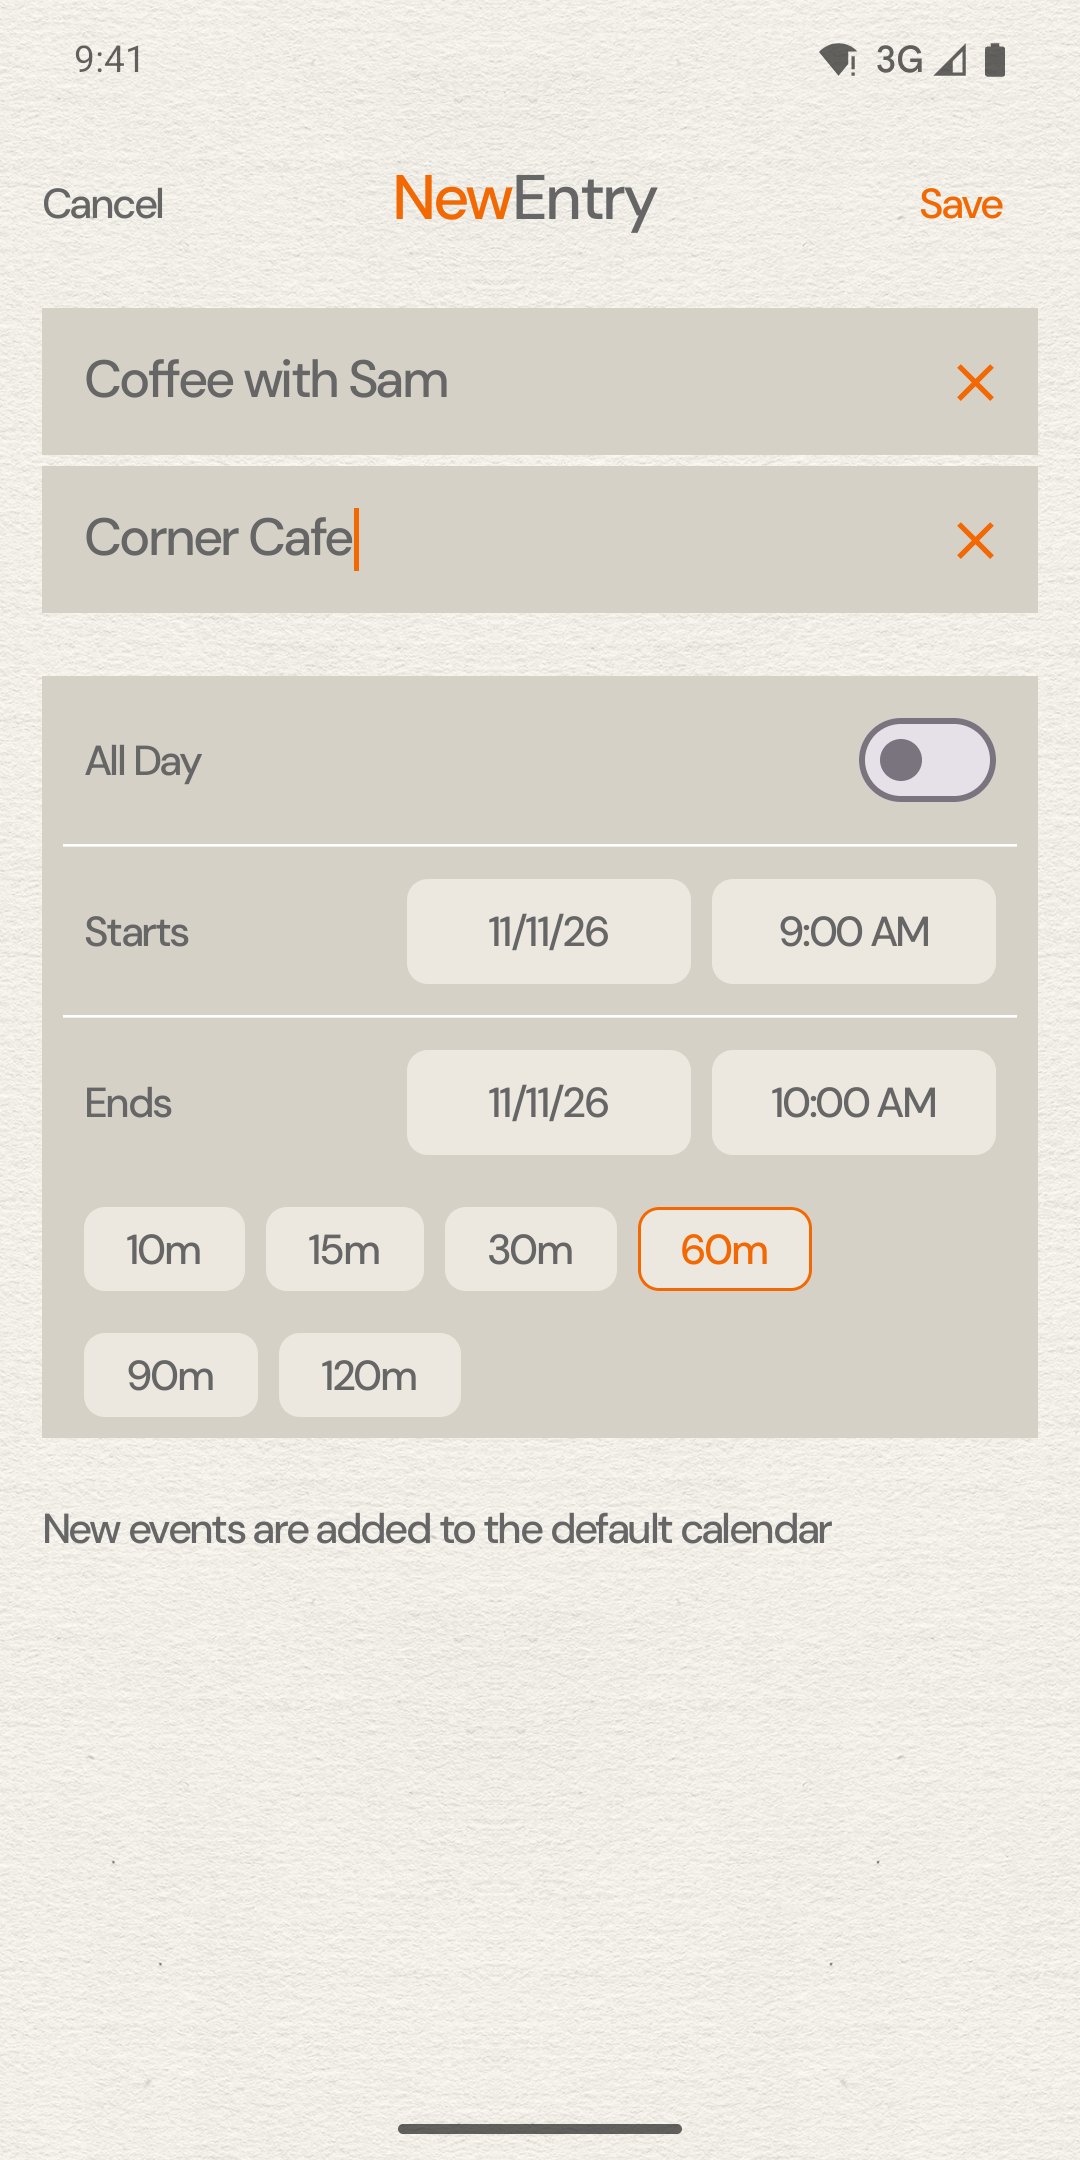
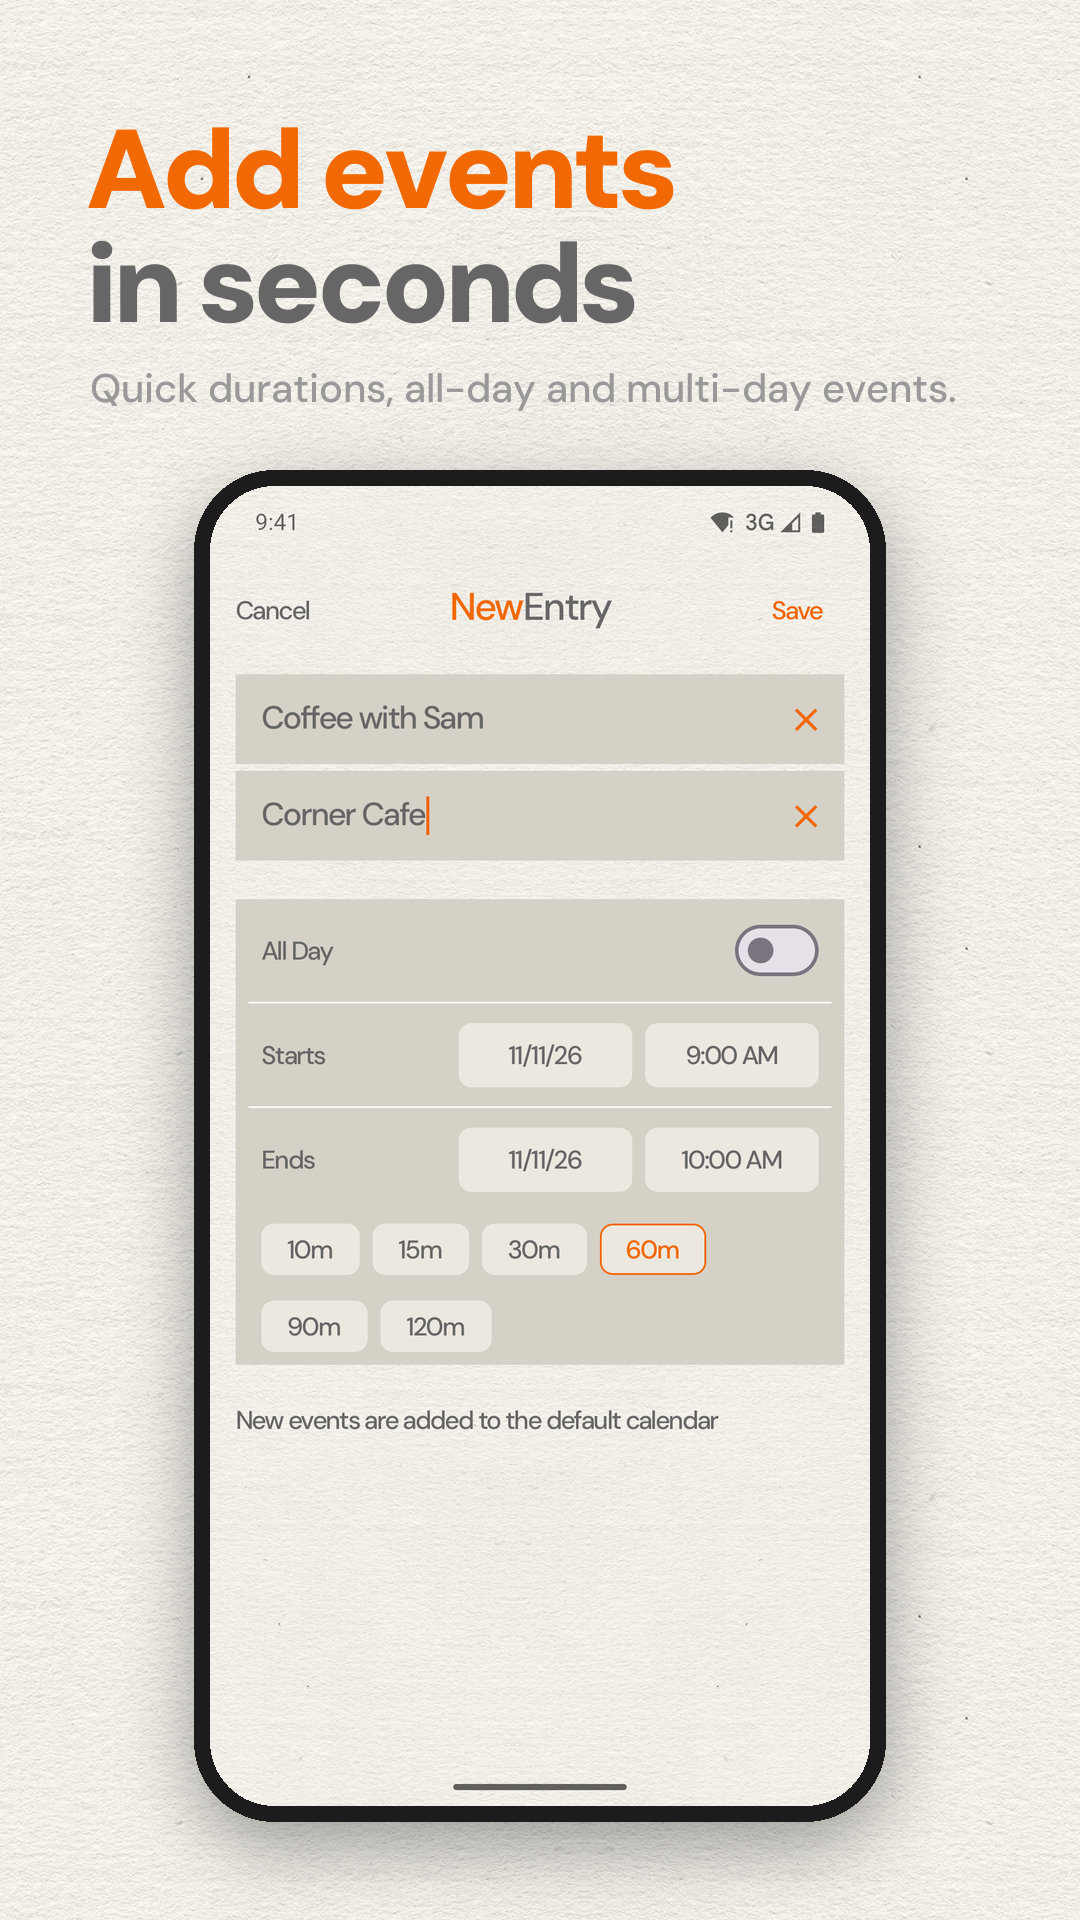
Raise Play price to 2.99 € and use framed 9:16 store screenshots

diff --git a/docs/release-checklist.md b/docs/release-checklist.md
@@ -28,7 +28,8 @@ throwaway key. The steps below need your accounts, keys or decisions.
 
 1. Create the app: name "Minimal Agenda", default language English (United States), **App**, **Paid**.
    A paid app needs a payments profile (merchant account) linked to the developer account.
-2. Set the price to 2.49 € (Monetize > Products > App pricing).
+2. Set the price to 2.99 € (Monetize > Products > App pricing). Play adds VAT to the price you enter, so check that
+   eurozone countries show 2.99 € and edit outliers per country.
 3. **App signing:** keep FOSS and Play builds on the same signature by choosing to use your own app signing
    key ("Export and upload a key from Java keystore", using Google's PEPK tool) instead of a Google-generated
    key. If Google generates the key, Play installs and GitHub/IzzyOnDroid APKs cannot update each other.
@@ -43,7 +44,7 @@ throwaway key. The steps below need your accounts, keys or decisions.
      answer the declaration if Play Console asks for one
 5. Store listing: use the texts below and upload from `fastlane/metadata/android/en-US/images/`:
    `icon.png` (512×512), `featureGraphic.png` (1024×500, a draft, replace if you want) and
-   `phoneScreenshots/*.png` (1080×2160).
+   `phoneScreenshots/*.png` (1080×1920, 9:16).
 6. **Upload the first AAB by hand.** Google Play's API cannot create the first release of a new app. Take the
    AAB from the `play-release-aab` artifact of the release workflow run (or build it locally with the signing
    variables set: `./gradlew :androidApp:bundlePlayRelease -PversionName=1.0.0 -PversionCode=10000`) and

diff --git a/AGENTS.md b/AGENTS.md
@@ -92,7 +92,7 @@ iosApp/              Xcode project (SwiftUI host), runs :shared:embedAndSignAppl
 
 ## Android plans (accepted in the decisions doc, 2026-11-05)
 
-- Play build is paid upfront (2.49€), so there is no billing code anywhere. No analytics or crash SDKs in any build.
+- Play build is paid upfront (2.99 € shown in eurozone stores, changed from 2.49 € on 2026-11-11), so there is no billing code anywhere. No analytics or crash SDKs in any build.
 - Modules `shared/` + `androidApp/` + `iosApp/` (done). `androidApp` has flavors `play` and `foss` that differ
   only by `BuildConfig.SHOW_DONATE` (true in `foss`; no donation links in `play`).
 - Both flavors use applicationId `eu.giant.agenda`, signed with the same key. minSdk 26.
@@ -173,8 +173,9 @@ and APK contents when distinguishing metadata from packaged Android dependencies
   `ci.yml` runs tests and debug builds on `main`. Details in README; first-release steps in
   `docs/release-checklist.md`.
 - Every release needs `fastlane/metadata/android/en-US/changelogs/<versionCode>.txt` (≤ 500 characters).
-  Store images live in `fastlane/metadata/android/en-US/images/`; Play screenshots must be at most 2:1
-  (capture with `adb -s emulator-5554 shell wm size 1080x2160`, then `wm size reset`).
+  Store images live in `fastlane/metadata/android/en-US/images/`; Play phone screenshots must be 9:16.
+  `phoneScreenshots/*.png` are 1080×1920 composites (headline, paper background, framed device) built from raw
+  captures taken with `adb -s emulator-5554 shell wm size 1080x2160`, then `wm size reset`.
 
 ## Working rules
 
